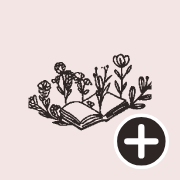
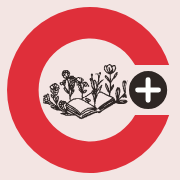
Icona con la C sul bordo, catalogo SBN come terza fonte ISBN, scheda copertina sistemata
- icone rifatte: C rossa che segue il bordo dell'icona tonda, libro fiorito dentro;
  "+" nell'apertura della C per Gestione libri; favicon con la C
- Code.gs: azione "isbn" che interroga opac.sbn.it, provaIsbn
- admin.html: ricerca su Google Books, SBN e Open Library insieme, indica dove ha trovato il libro;
  il pulsante per togliere l'immagine diventa una x sulla copertina (prima la allargava sopra i campi)
- sw.js: VERSIONE v2 per far scaricare le icone nuove

Claude-Session: https://claude.ai/code/session_01RP61e6U8rYu524aeGKW1C5

diff --git a/admin.html b/admin.html
@@ -84,7 +84,10 @@ form{display:grid;gap:12px}
 .libro-form{grid-template-columns:1fr}
 .libro-testa{display:grid;grid-template-columns:96px 1fr;gap:14px;align-items:start}
 @media (min-width:560px){.libro-testa{grid-template-columns:130px 1fr}}
-.anteprima{display:grid;gap:6px}
+.anteprima{position:relative;min-width:0}
+.libro-testa > *{min-width:0}
+.togli{position:absolute;top:-9px;right:-9px;z-index:2;width:32px;height:32px;border-radius:50%;border:1.5px solid var(--inchiostro);
+  background:var(--pagina);font-size:1.3rem;line-height:1;cursor:pointer;display:grid;place-items:center;padding:0 0 2px}
 .due{display:grid;grid-template-columns:minmax(0,1fr) 6.5em;gap:10px}
 .campi{display:grid;gap:12px}
 .libro-form .azioni .esito{flex-basis:100%}
@@ -162,7 +165,7 @@ form{display:grid;gap:12px}
       <div class="libro-testa">
         <div class="anteprima">
           <div id="anteprima"></div>
-          <button class="bottone chiaro piccolo" type="button" id="togli-copertina" hidden>Togli immagine</button>
+          <button class="togli" type="button" id="togli-copertina" aria-label="Togli l'immagine di copertina" title="Togli l'immagine" hidden>×</button>
         </div>
         <div class="campi">
           <label>Titolo<input name="titolo" autocomplete="off"></label>
@@ -350,6 +353,17 @@ async function daOpenLibrary(isbn) {
   };
 }
 
+// Catalogo nazionale SBN, tramite Apps Script (il servizio non accetta chiamate dirette dal browser)
+async function daSbn(isbn) {
+  const ctrl = new AbortController(); const t = setTimeout(() => ctrl.abort(), 12000);
+  try {
+    const r = await fetch(`${API_URL}?azione=isbn&isbn=${isbn}`, { signal: ctrl.signal });
+    const d = await r.json();
+    if (!d.ok) throw new Error(d.errore || "SBN");
+    return d.trovato ? { titolo: d.titolo, autori: d.autori, editore: d.editore, anno: d.anno, trama: "", copertina: "" } : null;
+  } finally { clearTimeout(t); }
+}
+
 const formIsbn = $("#form-isbn");
 formIsbn.addEventListener("submit", async e => {
   e.preventDefault();
@@ -365,24 +379,26 @@ formIsbn.addEventListener("submit", async e => {
   }
   const bottone = formIsbn.querySelector("button");
   bottone.disabled = true; bottone.textContent = "Cerco…";
-  const [g, o] = await Promise.allSettled([daGoogleBooks(isbn), daOpenLibrary(isbn)]);
+  // tre fonti in parallelo; per ogni campo vale la prima che ce l'ha, in questo ordine
+  const NOMI = ["Google Books", "SBN", "Open Library"];
+  const esiti = await Promise.allSettled([daGoogleBooks(isbn), daSbn(isbn), daOpenLibrary(isbn)]);
   bottone.disabled = false; bottone.textContent = "Cerca";
-  const fonti = [g, o].filter(x => x.status === "fulfilled" && x.value).map(x => x.value);
+  esiti.forEach((x, i) => { if (x.status === "rejected") console.warn(NOMI[i], x.reason); });
+  const trovate = esiti.map((x, i) => (x.status === "fulfilled" && x.value) ? { nome: NOMI[i], dati: x.value } : null).filter(Boolean);
 
   svuotaLibro();
   libro.isbn.value = isbn;
-  if (!fonti.length) {
+  if (!trovate.length) {
     esito.className = "esito errore";
-    esito.textContent = [g, o].every(x => x.status === "rejected")
+    esito.textContent = esiti.every(x => x.status === "rejected")
       ? "Ricerca non riuscita (connessione?). Puoi compilare la scheda a mano: l'ISBN resta salvato."
       : "Nessun risultato per questo ISBN: compila la scheda a mano, l'ISBN resta salvato.";
     libro.titolo.focus();
   } else {
-    // per ogni campo il primo valore trovato (Google Books, poi Open Library)
-    for (const k of ["titolo", "autori", "editore", "anno", "trama", "copertina"]) libro[k].value = fonti.map(f => f[k]).find(Boolean) || "";
+    for (const k of ["titolo", "autori", "editore", "anno", "trama", "copertina"]) libro[k].value = trovate.map(f => f.dati[k]).find(Boolean) || "";
     if (!libro.copertina.value) libro.copertina.value = `https://covers.openlibrary.org/b/isbn/${isbn}-M.jpg?default=false`;
     esito.className = "esito ok";
-    esito.textContent = "Trovato. Controlla i dati e scegli lo scaffale.";
+    esito.textContent = `Trovato su ${trovate.map(f => f.nome).join(", ").replace(/, ([^,]*)$/, " e $1")}. Controlla i dati e scegli lo scaffale.`;
     libro.categoria.focus();
   }
   disegnaAnteprima();

diff --git a/sw.js b/sw.js
@@ -3,7 +3,7 @@
    - immagini, icone, font e lettore di codici a barre: dalla copia salvata, scaricati una volta;
    - Apps Script, Google Books, Open Library: sempre dalla rete, mai salvati.
    Se cambi un'immagine o un'icona, aumenta VERSIONE: i telefoni scaricano tutto di nuovo. */
-const VERSIONE = "biblioteca-v1";
+const VERSIONE = "biblioteca-v2";
 const DA_SALVARE = [
   "./", "index.html", "admin.html", "manifest.webmanifest", "gestione.webmanifest",
   "assets/logo-aurora.png", "assets/icona-biblioteca.png",
